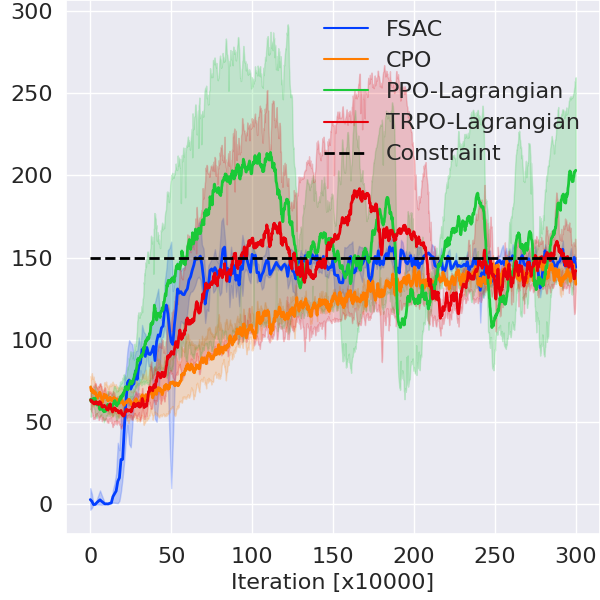
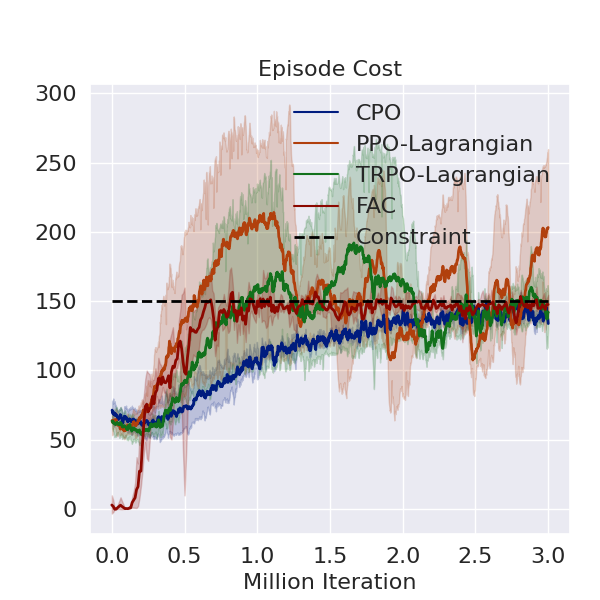
update lineplot

diff --git a/data_process/lineplot_mujoco.py b/data_process/lineplot_mujoco.py
@@ -18,13 +18,13 @@ SMOOTHFACTOR2 = 3
 SMOOTHFACTOR3 = 7
 DIV_LINE_WIDTH = 50
 txt_store_alg_list = ['CPO', 'PPO-Lagrangian', 'TRPO-Lagrangian']
-base_dict = dict(HalfCheetah=150)
+base_dict = dict(HalfCheetah=150, Ant=150)
 fsac_final_list = ['conti100HalfCheetah-2021-05-13-20-58-14-s4', 'conti100HalfCheetah-2021-05-14-00-33-41-s2'
                    ,'conti240HalfCheetah-2021-05-14-22-26-58-s3']
-
+ylim_dict = {'episode_return':{'HalfCheetah': [-1000,2500]},'episode_cost':{}}
 
 def help_func():
-    tag2plot = ['episode_return']
+    tag2plot = ['episode_cost']
     alg_list = ['CPO','PPO-Lagrangian','TRPO-Lagrangian', 'FSAC',] # 'FSAC', 'CPO', 'SAC','SAC-Lagrangian',
     lbs = ['CPO','PPO-Lagrangian','TRPO-Lagrangian', 'FAC'] # 'FSAC', 'CPO', 'SAC','SAC-Lagrangian',
     task = ['HalfCheetah']
@@ -92,6 +92,12 @@ def plot_eval_results_of_all_alg_n_runs(dirs_dict_for_plot=None):
                                                     -1] + SMOOTHFACTOR * float(t) / 1.69 * 149.0
                                                 if data_in_one_run_of_one_alg[tag] else float(t)/ 1.69 * 149.0)
                                             data_in_one_run_of_one_alg['iteration'].append(int(step))
+                                        elif dir.startswith('over') and tag == 'episode_cost' and v.tag[11:]=='episode_cost':
+                                            data_in_one_run_of_one_alg[tag].append(
+                                                (1 - SMOOTHFACTOR) * data_in_one_run_of_one_alg[tag][
+                                                    -1] + SMOOTHFACTOR * float(t) / 240.0 * 149.0
+                                                if data_in_one_run_of_one_alg[tag] else float(t)/ 240.0 * 149.0)
+                                            data_in_one_run_of_one_alg['iteration'].append(int(step))
                                         elif tag == v.tag[11:]:
                                             data_in_one_run_of_one_alg[tag].append(
                                                 (1 - SMOOTHFACTOR) * data_in_one_run_of_one_alg[tag][
@@ -114,7 +120,7 @@ def plot_eval_results_of_all_alg_n_runs(dirs_dict_for_plot=None):
                             df_in_one_run_of_one_alg[tag] = smoothed_x
                     df_list.append(df_in_one_run_of_one_alg)
                     lendf = len(df_in_one_run_of_one_alg[tag2plot[0]])
-                    if alg == 'FSAC':
+                    if alg == 'FSAC' and task == 'HalfCheetah':
                         if dir in fsac_final_list:
                             final_results[alg]+= list(df_in_one_run_of_one_alg[tag2plot[0]][lendf-21: lendf-1]) # TODO: consider conti if exists
                     else:
@@ -122,7 +128,7 @@ def plot_eval_results_of_all_alg_n_runs(dirs_dict_for_plot=None):
         compare_dict = dump_results(final_results)
         total_dataframe = df_list[0].append(df_list[1:], ignore_index=True) if len(df_list) > 1 else df_list[0]
         figsize = (6,6)
-        axes_size = [0.11, 0.11, 0.85, 0.75] #if env == 'path_tracking_env' else [0.095, 0.11, 0.905, 0.89]
+        axes_size = [0.15, 0.11, 0.8, 0.75] #if env == 'path_tracking_env' else [0.095, 0.11, 0.905, 0.89]
         fontsize = 16
         f1 = plt.figure(1, figsize=figsize)
         ax1 = f1.add_axes(axes_size)
@@ -133,11 +139,11 @@ def plot_eval_results_of_all_alg_n_runs(dirs_dict_for_plot=None):
         handles, labels = ax1.get_legend_handles_labels()
         labels = lbs
         if tag == 'episode_cost':
-            basescore = sns.lineplot(x=[0., 300.], y=[base, base], linewidth=2, color='black', linestyle='--')
+            basescore = sns.lineplot(x=[0., 3.], y=[base, base], linewidth=2, color='black', linestyle='--')
             ax1.legend(handles=handles + [basescore.lines[-1]], labels=labels + ['Constraint'], loc='upper right',
                        frameon=False, fontsize=fontsize)
         else:
-            ax1.legend(handles=handles , labels=labels , loc='lower right', frameon=False, fontsize=fontsize, ncol=4)
+            ax1.legend(handles=handles , labels=labels , loc='lower right', frameon=False, fontsize=fontsize, ncol=1)
         # print(ax1.lines[0].get_data())
         ax1.set_ylabel('')
         ax1.set_xlabel("Million Iteration", fontsize=fontsize)
@@ -145,6 +151,8 @@ def plot_eval_results_of_all_alg_n_runs(dirs_dict_for_plot=None):
         title = 'Reward ({}) \n {:+.0%}, {:+.0%}, {:+.0%}\n over TRPO-L, CPO, PPO-L'\
             .format(task, compare_dict['TRPO-Lagrangian'], compare_dict['CPO'], compare_dict['PPO-Lagrangian']) if tag == 'episode_return' else 'Episode Cost'
         ax1.set_title(title, fontsize=fontsize)
+        if task in ylim_dict[tag]:
+            ax1.set_ylim(*ylim_dict[tag][task])
         plt.yticks(fontsize=fontsize)
         plt.xticks(fontsize=fontsize)
         # plt.show()

diff --git a/train_script4fsac.py b/train_script4fsac.py
@@ -143,15 +143,15 @@ def built_FSAC_parser():
     parser.add_argument('--value_num_hidden_layers', type=int, default=2)
     parser.add_argument('--value_num_hidden_units', type=int, default=64)
     parser.add_argument('--value_hidden_activation', type=str, default='elu')
-    parser.add_argument('--value_lr_schedule', type=list, default=[8e-5, 1000000, 1e-6])
-    parser.add_argument('--cost_value_lr_schedule', type=list, default=[8e-5, 1000000, 1e-6])
+    parser.add_argument('--value_lr_schedule', type=list, default=[3e-5, 1000000, 1e-6])
+    parser.add_argument('--cost_value_lr_schedule', type=list, default=[3e-5, 1000000, 1e-6])
     parser.add_argument('--policy_model_cls', type=str, default='MLP')
     parser.add_argument('--policy_num_hidden_layers', type=int, default=2)
     parser.add_argument('--policy_num_hidden_units', type=int, default=64)
     parser.add_argument('--policy_hidden_activation', type=str, default='elu')
     parser.add_argument('--policy_out_activation', type=str, default='linear')
-    parser.add_argument('--policy_lr_schedule', type=list, default=[3e-5, 500000, 1e-6])
-    parser.add_argument('--lam_lr_schedule', type=list, default=[5e-6, 150000, 1e-6])
+    parser.add_argument('--policy_lr_schedule', type=list, default=[8e-6, 500000, 1e-6])
+    parser.add_argument('--lam_lr_schedule', type=list, default=[1e-6, 150000, 1e-7])
     parser.add_argument('--alpha', default='auto')  # 'auto' 0.02
     alpha = parser.parse_args().alpha
     if alpha == 'auto':
@@ -179,13 +179,13 @@ def built_FSAC_parser():
 
     # Optimizer (PABAL)
     parser.add_argument('--max_sampled_steps', type=int, default=0)
-    parser.add_argument('--max_iter', type=int, default=1000000)
+    parser.add_argument('--max_iter', type=int, default=1800000)
     parser.add_argument('--num_workers', type=int, default=NUM_WORKER)
     parser.add_argument('--num_learners', type=int, default=NUM_LEARNER)
     parser.add_argument('--num_buffers', type=int, default=NUM_BUFFER)
     parser.add_argument('--max_weight_sync_delay', type=int, default=300)
     parser.add_argument('--grads_queue_size', type=int, default=25)
-    parser.add_argument('--grads_max_reuse', type=int, default=5)
+    parser.add_argument('--grads_max_reuse', type=int, default=3)
     parser.add_argument('--eval_interval', type=int, default=10000) # 1000
     parser.add_argument('--save_interval', type=int, default=200000) # 200000
     parser.add_argument('--log_interval', type=int, default=100) # 100
@@ -201,9 +201,9 @@ def built_FSAC_parser():
     parser.add_argument('--result_dir', type=str, default=results_dir)
     parser.add_argument('--log_dir', type=str, default=results_dir + '/logs')
     parser.add_argument('--model_dir', type=str, default=results_dir + '/models')
-    parser.add_argument('--model_load_dir', type=str, default=None)
-    parser.add_argument('--model_load_ite', type=int, default=None)
-    parser.add_argument('--ppc_load_dir', type=str, default=None)
+    parser.add_argument('--model_load_dir', type=str, default='./results/FSAC/Walker2d/Walker2d-2021-05-16-11-22-56-s4/models')
+    parser.add_argument('--model_load_ite', type=int, default=200000)
+    parser.add_argument('--ppc_load_dir', type=str, default='./results/FSAC/Walker2d/Walker2d-2021-05-16-11-22-56-s4/models')
 
     return parser.parse_args()
 

diff --git a/evaluator.py b/evaluator.py
@@ -507,7 +507,7 @@ class EvaluatorWithCost(object):
         if self.eval_times % self.args.eval_log_interval == 0:
             logger.info('Evaluator_info: {}, {}'.format(self.get_stats(), mean_metric_dict))
         self.eval_times += 1
-        over_cost_lim = mean_metric_dict['episode_cost'] > (1.2 * self.args.cost_lim / 0.2)
+        over_cost_lim = mean_metric_dict['episode_cost'] > (1.2 * self.args.cost_lim / self.args.rew_scale)
         return over_cost_lim
 
 def run_evaluation_demo(self, iteration):
